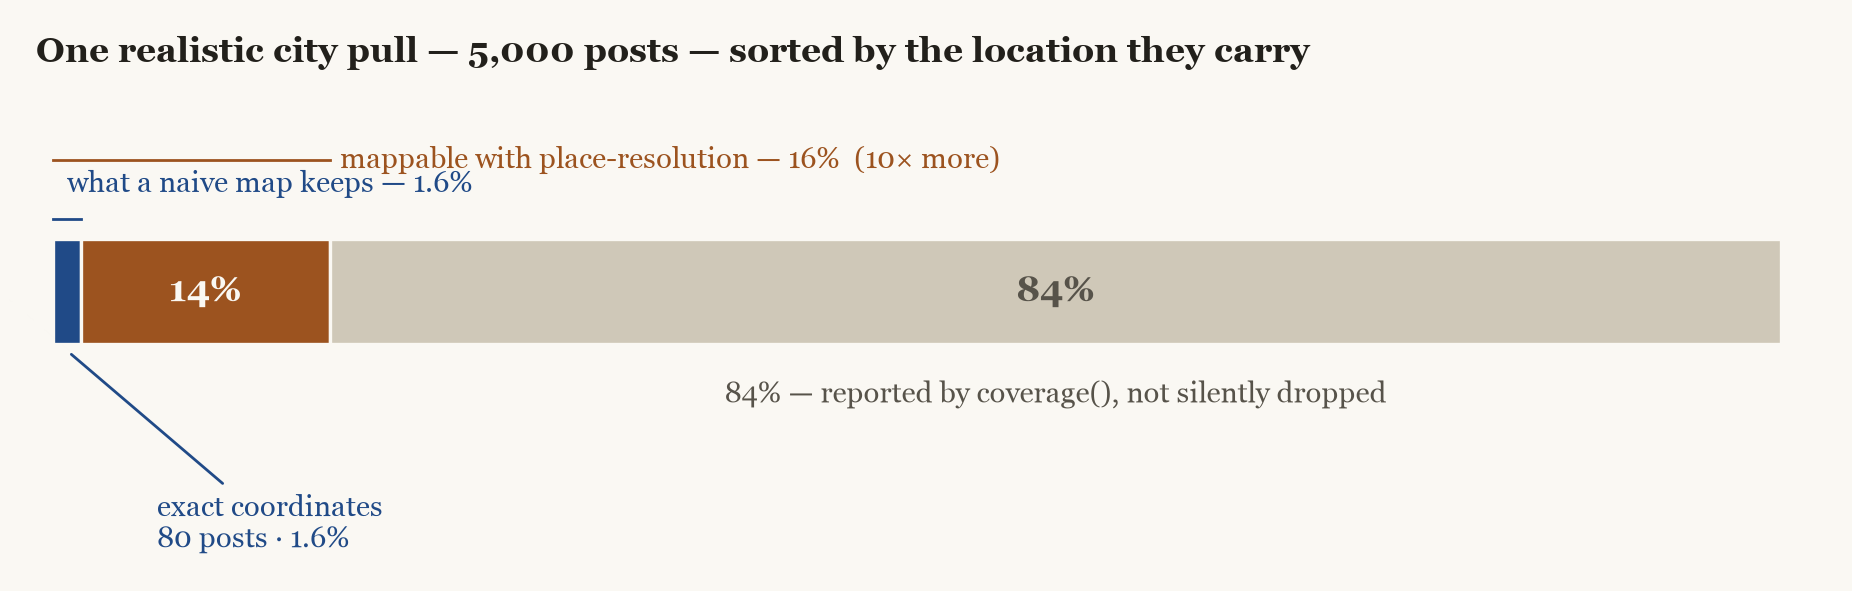
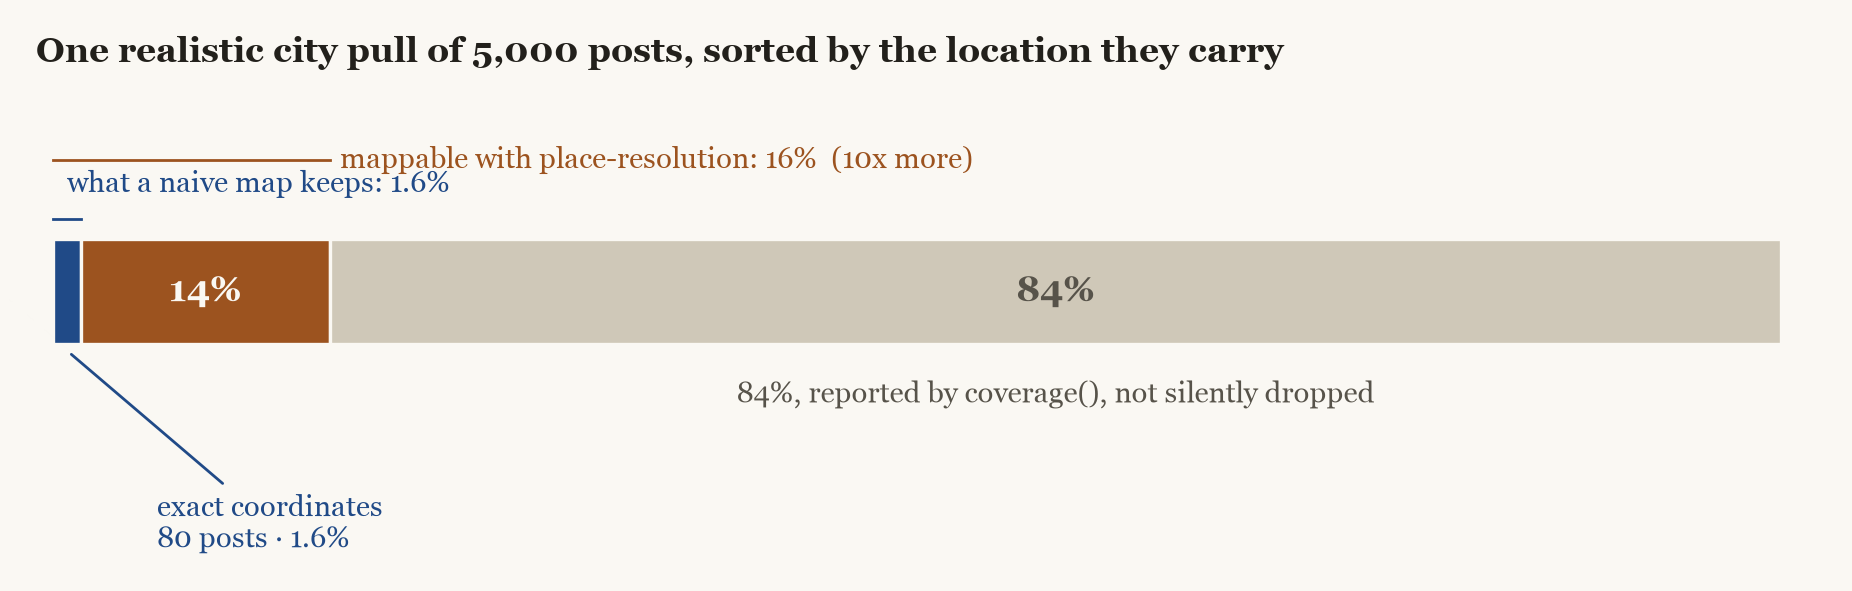
Writing: de-dash "The unmapped majority" (post, feeds, figures, OG card)
House style: no em/en-dashes as punctuation. Rewrites the prose, index dek,
feed entries, and regenerates the two figures + OG card with dash-free text.
Content and numbers unchanged.

diff --git a/blog/geosocialx-coverage.html b/blog/geosocialx-coverage.html
@@ -3,7 +3,7 @@
 <head>
   <meta charset="utf-8">
   <title>The unmapped majority — Jayesh Suryavanshi</title>
-  <meta name="description" content="Most geotagged-social pipelines quietly map the 1–2% of posts that carry exact coordinates and call it 'the geography.' Count the coverage first and a different picture appears. A worked example with GeoSocialX: on a realistic 5,000-post city pull, 84% have no location, place-resolution recovers 10× more than exact coordinates alone, and the honest move is to report the hole.">
+  <meta name="description" content="Most geotagged-social pipelines quietly map the 1-2% of posts that carry exact coordinates and call it 'the geography.' Count the coverage first and a different picture appears. A worked example with GeoSocialX: on a realistic 5,000-post city pull, 84% have no location, place-resolution recovers 10x more than exact coordinates alone, and the honest move is to report the hole.">
   <meta name="author" content="Jayesh Suryavanshi">
   <link rel="canonical" href="https://www.jayeshsuryavanshi.com/blog/geosocialx-coverage.html">
 
@@ -11,18 +11,18 @@
   <meta property="og:url" content="https://www.jayeshsuryavanshi.com/blog/geosocialx-coverage.html">
   <meta property="og:site_name" content="Jayesh Suryavanshi">
   <meta property="og:title" content="The unmapped majority">
-  <meta property="og:description" content="Geotagged-social pipelines quietly map the 1–2% with coordinates and call it the geography. Count the coverage first: 84% carry no location, place-resolution recovers 10× more, and the honest move is to report the hole. A worked example with GeoSocialX.">
+  <meta property="og:description" content="Geotagged-social pipelines quietly map the 1-2% with coordinates and call it the geography. Count the coverage first: 84% carry no location, place-resolution recovers 10x more, and the honest move is to report the hole rather than hide it. A worked example with GeoSocialX.">
   <meta property="og:image" content="https://www.jayeshsuryavanshi.com/images/og-geosocialx.png">
   <meta property="og:image:width" content="2400">
   <meta property="og:image:height" content="1260">
-  <meta property="og:image:alt" content="The unmapped majority — coverage honesty for geotagged social data, by Jayesh Suryavanshi">
+  <meta property="og:image:alt" content="The unmapped majority: coverage honesty for geotagged social data, by Jayesh Suryavanshi">
   <meta property="article:published_time" content="2026-07-31">
 
   <meta name="twitter:card" content="summary_large_image">
   <meta name="twitter:site" content="@2jayesh3">
   <meta name="twitter:creator" content="@2jayesh3">
   <meta name="twitter:title" content="The unmapped majority">
-  <meta name="twitter:description" content="Geotagged-social pipelines map the 1–2% with coordinates and call it the geography. Count the coverage first — a worked example with GeoSocialX.">
+  <meta name="twitter:description" content="Geotagged-social pipelines map the 1-2% with coordinates and call it the geography. Count the coverage first. A worked example with GeoSocialX.">
   <meta name="twitter:image" content="https://www.jayeshsuryavanshi.com/images/og-geosocialx.png">
 
   <meta name="viewport" content="width=device-width, initial-scale=1">
@@ -65,7 +65,7 @@
     <article>
       <p class="kicker">Research Notes</p>
       <h1 class="title">The unmapped majority</h1>
-      <p class="dek">Most tools for geotagged social data quietly map the 1–2% of posts that carry exact coordinates and call it &ldquo;the geography.&rdquo; Count the coverage first and a different picture appears. This is the idea I built <a href="https://pypi.org/project/geosocialx/">GeoSocialX</a> around — and a worked example that shows what the naive map hides.</p>
+      <p class="dek">Most tools for geotagged social data quietly map the 1-2% of posts that carry exact coordinates and call it &ldquo;the geography.&rdquo; Count the coverage first and a different picture appears. This is the idea I built <a href="https://pypi.org/project/geosocialx/">GeoSocialX</a> around, plus a worked example that shows what the naive map hides.</p>
       <div class="byline">
         <span>By <strong>Jayesh Suryavanshi</strong></span>
         <span class="sep">&middot;</span>
@@ -76,18 +76,18 @@
 
       <div class="prose">
 
-        <p class="lead">Here is the quiet failure mode at the heart of almost every &ldquo;map of what people are posting about&rdquo; you have ever seen. You pull some posts, keep the ones that happen to carry a location, drop the rest without comment, plot the survivors, and present the result as if it were the geography of the conversation. It is not. It is the geography of the small, self-selected minority who leave their location on &mdash; rendered at full confidence, with the majority silently deleted.</p>
+        <p class="lead">Here is the quiet failure mode at the heart of almost every &ldquo;map of what people are posting about&rdquo; you have ever seen. You pull some posts, keep the ones that happen to carry a location, drop the rest without comment, plot the survivors, and present the result as if it were the geography of the conversation. It is not. It is the geography of the small, self-selected minority who leave their location on, rendered at full confidence, with the majority silently deleted.</p>
 
-        <p>The number that should stop you is how small that minority is. Exact-coordinate geotagging on the Twitter/X API has sat in the low single digits of posts for years &mdash; commonly cited at roughly <strong>1&ndash;2%</strong>.<span class="sn-ref">1</span> A coarser &ldquo;place&rdquo; tag (a city, a neighborhood, a venue) is more common but still a minority. So when a dashboard draws a heatmap of &ldquo;where the discourse is,&rdquo; it is very often drawing 1-in-50 posts and rounding the confidence up to 100%.</p>
+        <p>The number that should stop you is how small that minority is. Exact-coordinate geotagging on the Twitter/X API has sat in the low single digits of posts for years, commonly cited at roughly <strong>1-2%</strong>.<span class="sn-ref">1</span> A coarser &ldquo;place&rdquo; tag (a city, a neighborhood, a venue) is more common but still a minority. So when a dashboard draws a heatmap of &ldquo;where the discourse is,&rdquo; it is very often drawing 1-in-50 posts and rounding the confidence up to 100%.</p>
 
-        <aside class="sidenote"><span class="sn-num">1</span>The exact rate drifts with platform, endpoint, and era, and it fell further once the free API closed in 2023. The point isn&rsquo;t a precise constant &mdash; it&rsquo;s the order of magnitude: exact coordinates are rare, place tags are a minority, and no-location is the default state of a post.</aside>
+        <aside class="sidenote"><span class="sn-num">1</span>The exact rate drifts with platform, endpoint, and era, and it fell further once the free API closed in 2023. The point isn&rsquo;t a precise constant. It&rsquo;s the order of magnitude: exact coordinates are rare, place tags are a minority, and no-location is the default state of a post.</aside>
 
-        <p>I kept hitting this while building <a href="https://github.com/JayeshSuryavanshi/GeoSocialX">GeoSocialX</a>, a small Python package for the geospatial side of social data. The tempting design is to make the location-carrying records easy to map and say nothing about the rest. I decided the opposite should be the package&rsquo;s primary job: <strong>make the coverage of a corpus a first-class, inspectable output &mdash; before anyone draws a single dot.</strong></p>
+        <p>I kept hitting this while building <a href="https://github.com/JayeshSuryavanshi/GeoSocialX">GeoSocialX</a>, a small Python package for the geospatial side of social data. The tempting design is to make the location-carrying records easy to map and say nothing about the rest. I decided the opposite should be the package&rsquo;s primary job: <strong>make the coverage of a corpus a first-class, inspectable output, before anyone draws a single dot.</strong></p>
 
         <h2>Count the coverage before you map anything</h2>
-        <p>To show what that changes, I ran the package on a corpus I can describe exactly. It is a synthetic pull of <strong>5,000 posts</strong> across San&nbsp;Francisco, generated with a fixed seed and calibrated to the sparsity above &mdash; a small fraction with exact coordinates, a modest slice with only a place tag, and the large remainder with no location at all.<span class="sn-ref">2</span> Everything below is the real output of the shipping <code>geosocialx</code> 0.8.0 API on that corpus; the script is linked at the end.</p>
+        <p>To show what that changes, I ran the package on a corpus I can describe exactly. It is a synthetic pull of <strong>5,000 posts</strong> across San&nbsp;Francisco, generated with a fixed seed and calibrated to the sparsity above: a small fraction with exact coordinates, a modest slice with only a place tag, and the large remainder with no location at all.<span class="sn-ref">2</span> Everything below is the real output of the shipping <code>geosocialx</code> 0.8.0 API on that corpus; the script is linked at the end.</p>
 
-        <aside class="sidenote"><span class="sn-num">2</span>Synthetic on purpose. The honest version of this demonstration can&rsquo;t use a real feed &mdash; the whole point is that the interesting data (the un-located majority) is exactly what a real pull won&rsquo;t hand you cleanly. A seeded corpus calibrated to documented rates lets the numbers be reproducible and the argument be about method, not about one city on one week.</aside>
+        <aside class="sidenote"><span class="sn-num">2</span>Synthetic on purpose. The honest version of this demonstration can&rsquo;t use a real feed. The whole point is that the interesting data (the un-located majority) is exactly what a real pull won&rsquo;t hand you cleanly. A seeded corpus calibrated to documented rates lets the numbers be reproducible and the argument be about method, not about one city on one week.</aside>
 
         <p>The first call isn&rsquo;t a map. It&rsquo;s a census:</p>
 
@@ -98,15 +98,15 @@ ex = GeospatialExtractor()
 ex.coverage(tweets)
 <span class="c"># {'total': 5000, 'with_point': 80, 'place_only': 720, 'no_geo': 4200}</span></code></pre>
 
-        <p>Eighty posts &mdash; <strong>1.6%</strong> &mdash; carry a real coordinate. Another 720 (14.4%) carry only a place tag. And 4,200, <strong>84% of the corpus, carry no location at all.</strong> That last number is the one every silent pipeline throws away without ever printing. Here it is a returned value, forced into the open:</p>
+        <p>Eighty posts, <strong>1.6%</strong>, carry a real coordinate. Another 720 (14.4%) carry only a place tag. And 4,200, <strong>84% of the corpus, carry no location at all.</strong> That last number is the one every silent pipeline throws away without ever printing. Here it is a returned value, forced into the open:</p>
 
         <figure>
           <img src="../images/geosocialx-coverage.png" alt="Horizontal bar of 5,000 posts: a 1.6% blue sliver of exact coordinates, a 14.4% rust segment of place-only tags, and an 84% gray segment with no location. A naive map keeps only the sliver; place-resolution reaches 16%; the 84% is reported, not dropped." loading="lazy">
-          <figcaption>The coverage cliff. A naive map keeps the thin blue sliver &mdash; 1.6% of the corpus &mdash; and implies it speaks for the whole. Place-resolution reaches 16%. The 84% with no location is the point: <code>coverage()</code> returns it instead of deleting it.</figcaption>
+          <figcaption>The coverage cliff. A naive map keeps the thin blue sliver, 1.6% of the corpus, and implies it speaks for the whole. Place-resolution reaches 16%. The 84% with no location is the point: <code>coverage()</code> returns it instead of deleting it.</figcaption>
         </figure>
 
-        <h2>Place-resolution: 10× more data, honestly labelled</h2>
-        <p>The 14.4% with a place tag aren&rsquo;t nothing &mdash; a place has a bounding box, and a bounding box has a centroid. GeoSocialX will resolve those place-only posts to their centroid <em>if you pass it the place geometry</em>, and &mdash; this is the part that matters &mdash; it stamps every resulting point with where it came from: <code>source="exact"</code> or <code>source="place"</code>.</p>
+        <h2>Place-resolution: 10&times; more data, honestly labelled</h2>
+        <p>The 14.4% with a place tag aren&rsquo;t nothing. A place has a bounding box, and a bounding box has a centroid. GeoSocialX will resolve those place-only posts to their centroid <em>if you pass it the place geometry</em>, and (this is the part that matters) it stamps every resulting point with where it came from: <code>source="exact"</code> or <code>source="place"</code>.</p>
 
         <pre><code><span class="c"># The naive map most tools draw: exact coordinates only.</span>
 naive = ex.extract_points(tweets)                <span class="c"># 80 points  (1.6%)</span>
@@ -117,29 +117,29 @@ pts = ex.extract_points(tweets, places=places)   <span class="c"># 800 points (1
 GeospatialAnalyzer(pts).summary()
 <span class="c"># {'count': 800, 'centroid': (-122.42, 37.78), 'span_km': 14.4, ...}</span></code></pre>
 
-        <p>Eighty points became eight hundred &mdash; a <strong>10× recovery</strong> &mdash; and the map goes from &ldquo;statistically empty&rdquo; to genuinely usable. But it does not become more precise. It becomes <em>fuller and coarser at the same time</em>, and the <code>source</code> flag is what keeps that trade-off visible instead of laundered.</p>
+        <p>Eighty points became eight hundred, a <strong>10&times; recovery</strong>, and the map goes from &ldquo;statistically empty&rdquo; to genuinely usable. But it does not become more precise. It becomes <em>fuller and coarser at the same time</em>, and the <code>source</code> flag is what keeps that trade-off visible instead of laundered.</p>
 
         <figure>
-          <img src="../images/geosocialx-maps.png" alt="Two maps of San Francisco from the same 5,000 posts. Left: 80 scattered exact points, 1.6%. Right: the same points plus rust rings at neighborhood centroids sized by post count, 800 points, 16% — fuller but visibly snapped to a handful of coarse locations." loading="lazy">
-          <figcaption>Same 5,000 posts, two maps. Left is what exact coordinates alone give you: 80 precise-looking dots that read as authoritative and cover 1.6% of the data. Right adds place-resolution &mdash; 10× the records, but stacked onto neighborhood centroids (the rings), coarse by construction. Both maps still omit the 84% with no location; the difference is that GeoSocialX <em>tells you</em> they&rsquo;re omitted.</figcaption>
+          <img src="../images/geosocialx-maps.png" alt="Two maps of San Francisco from the same 5,000 posts. Left: 80 scattered exact points, 1.6%. Right: the same points plus rust rings at neighborhood centroids sized by post count, 800 points, 16%, fuller but visibly snapped to a handful of coarse locations." loading="lazy">
+          <figcaption>Same 5,000 posts, two maps. Left is what exact coordinates alone give you: 80 precise-looking dots that read as authoritative and cover 1.6% of the data. Right adds place-resolution: 10&times; the records, but stacked onto neighborhood centroids (the rings), coarse by construction. Both maps still omit the 84% with no location. The difference is that GeoSocialX <em>tells you</em> they&rsquo;re omitted.</figcaption>
         </figure>
 
-        <p>Notice what the hotspots become. The busiest grid cell holds 110 posts &mdash; but it sits on the Mission&rsquo;s centroid, not on 110 people. Once most of your mapped points are place-derived, your &ldquo;hotspots&rdquo; are partly an artifact of where place boundaries were drawn. That is a fine thing to report &mdash; and a dangerous thing to imply is precise. The <code>source</code> flag is there so you can filter to <code>"exact"</code> when precision matters, or keep both and say so.</p>
+        <p>Notice what the hotspots become. The busiest grid cell holds 110 posts, but it sits on the Mission&rsquo;s centroid, not on 110 people. Once most of your mapped points are place-derived, your &ldquo;hotspots&rdquo; are partly an artifact of where place boundaries were drawn. That is a fine thing to report, and a dangerous thing to imply is precise. The <code>source</code> flag is there so you can filter to <code>"exact"</code> when precision matters, or keep both and say so.</p>
 
         <div class="callout">
           <div class="label">What the fuller map still won&rsquo;t tell you</div>
-          <p>Recovering 16% is not the same as being representative. The people who leave coordinates or check into places are not a random sample &mdash; they skew toward events, nightlife, tourism, and the kind of posting that <em>wants</em> to be located. The 84% with no geo aren&rsquo;t missing at random; they are a different population. Coverage honesty doesn&rsquo;t fix that selection bias. It just refuses to hide it &mdash; which is the precondition for reasoning about it at all.</p>
+          <p>Recovering 16% is not the same as being representative. The people who leave coordinates or check into places are not a random sample. They skew toward events, nightlife, tourism, and the kind of posting that <em>wants</em> to be located. The 84% with no geo aren&rsquo;t missing at random; they are a different population. Coverage honesty doesn&rsquo;t fix that selection bias. It just refuses to hide it, which is the precondition for reasoning about it at all.</p>
         </div>
 
         <h2>Why put this in the library instead of the analysis</h2>
-        <p>Because the silent filter is a <em>default</em>, and defaults win. If reporting coverage is a thing you must remember to do by hand, most pipelines won&rsquo;t, and the ones that skip it look identical to the ones that didn&rsquo;t need to. Making <code>coverage()</code> the natural first call &mdash; and making every point carry its provenance &mdash; moves the honest choice from &ldquo;disciplined analyst remembers&rdquo; to &ldquo;falls out of the API.&rdquo; That is the whole design bet: the tool should make the representative move the easy one.</p>
+        <p>Because the silent filter is a <em>default</em>, and defaults win. If reporting coverage is a thing you must remember to do by hand, most pipelines won&rsquo;t, and the ones that skip it look identical to the ones that didn&rsquo;t need to. Making <code>coverage()</code> the natural first call, and making every point carry its provenance, moves the honest choice from &ldquo;disciplined analyst remembers&rdquo; to &ldquo;falls out of the API.&rdquo; That is the whole design bet: the tool should make the representative move the easy one.</p>
 
         <div class="takeaways">
           <h2>Bottom line</h2>
           <ul>
             <li><strong>Count coverage before you map.</strong> On a realistic 5,000-post city pull, 1.6% carried exact coordinates and 84% carried no location. A map of the 1.6% is not a map of the conversation.</li>
-            <li><strong>Place-resolution buys 10× the data, not 10× the precision.</strong> Resolving place tags to centroids reached 16% coverage here &mdash; fuller, coarser, and only honest if each point remembers it&rsquo;s a centroid, not a person.</li>
-            <li><strong>The recovered map is still a sample, not the population.</strong> Geotaggers self-select. Reporting the hole doesn&rsquo;t close it &mdash; it just stops you mistaking the visible minority for everyone.</li>
+            <li><strong>Place-resolution buys 10&times; the data, not 10&times; the precision.</strong> Resolving place tags to centroids reached 16% coverage here: fuller, coarser, and only honest if each point remembers it&rsquo;s a centroid, not a person.</li>
+            <li><strong>The recovered map is still a sample, not the population.</strong> Geotaggers self-select. Reporting the hole doesn&rsquo;t close it. It just stops you mistaking the visible minority for everyone.</li>
             <li><strong>Make the honest move the default.</strong> That&rsquo;s the point of shipping it as a library: <code>pip install geosocialx</code>, and coverage is the first thing the tool hands you.</li>
           </ul>
         </div>
@@ -150,8 +150,8 @@ GeospatialAnalyzer(pts).summary()
           <h3>Reproduce this</h3>
           <ul>
             <li>Package &amp; source: <a href="https://github.com/JayeshSuryavanshi/GeoSocialX">github.com/JayeshSuryavanshi/GeoSocialX</a> &middot; <a href="https://pypi.org/project/geosocialx/">PyPI</a> &middot; DOI <a href="https://doi.org/10.5281/zenodo.21726579">10.5281/zenodo.21726579</a></li>
-            <li>Every number and both figures above come from the shipping <code>geosocialx</code> 0.8.0 API on one seeded synthetic corpus &mdash; the generator and figure script are in the post&rsquo;s <a href="https://github.com/JayeshSuryavanshi/GeoSocialX/tree/main/examples">examples</a>.</li>
-            <li>Background on geotag sparsity in social data: the computational-social-science literature on Twitter/X geolocation (Graham, Hale &amp; Gaffney; Morstatter et&nbsp;al. on API sampling) &middot; the AT&nbsp;Protocol <code>community.lexicon.location.geo</code> schema for the free, open alternative.</li>
+            <li>Every number and both figures above come from the shipping <code>geosocialx</code> 0.8.0 API on one seeded synthetic corpus. The generator and figure script live in the repo&rsquo;s <a href="https://github.com/JayeshSuryavanshi/GeoSocialX/blob/main/examples/coverage_worked_example.py">examples</a>.</li>
+            <li>Background on geotag sparsity in social data: the computational-social-science literature on Twitter/X geolocation (Graham, Hale &amp; Gaffney; Morstatter et&nbsp;al. on API sampling). The free, open alternative is the AT&nbsp;Protocol <code>community.lexicon.location.geo</code> schema.</li>
           </ul>
         </div>
 
@@ -160,7 +160,7 @@ GeospatialAnalyzer(pts).summary()
 
     <footer class="post-foot">
       <a class="back" href="index.html">&larr; All writing</a>
-      <p class="made">Numbers and figures generated by the shipping GeoSocialX 0.8.0 on a seeded, reproducible corpus &mdash; no hand-drawn data.</p>
+      <p class="made">Numbers and figures generated by the shipping GeoSocialX 0.8.0 on a seeded, reproducible corpus, with no hand-drawn data.</p>
     </footer>
 
   </div>

diff --git a/blog/index.html b/blog/index.html
@@ -44,7 +44,7 @@
         <a class="card" href="geosocialx-coverage.html">
           <div class="p-meta">Research Notes · Jul 2026</div>
           <h2 class="p-title">The unmapped majority</h2>
-          <p class="p-dek">Most tools for geotagged social data quietly map the 1–2% of posts with exact coordinates and call it &ldquo;the geography.&rdquo; Count the coverage first: on a realistic 5,000-post city pull, 84% carry no location, place-resolution recovers 10× more than exact coordinates alone, and the honest move is to report the hole — the idea I built GeoSocialX around.</p>
+          <p class="p-dek">Most tools for geotagged social data quietly map the 1-2% of posts with exact coordinates and call it &ldquo;the geography.&rdquo; Count the coverage first: on a realistic 5,000-post city pull, 84% carry no location, place-resolution recovers 10&times; more than exact coordinates alone, and the honest move is to report the hole. It is the idea I built GeoSocialX around.</p>
         </a>
       </li>
       <li>
